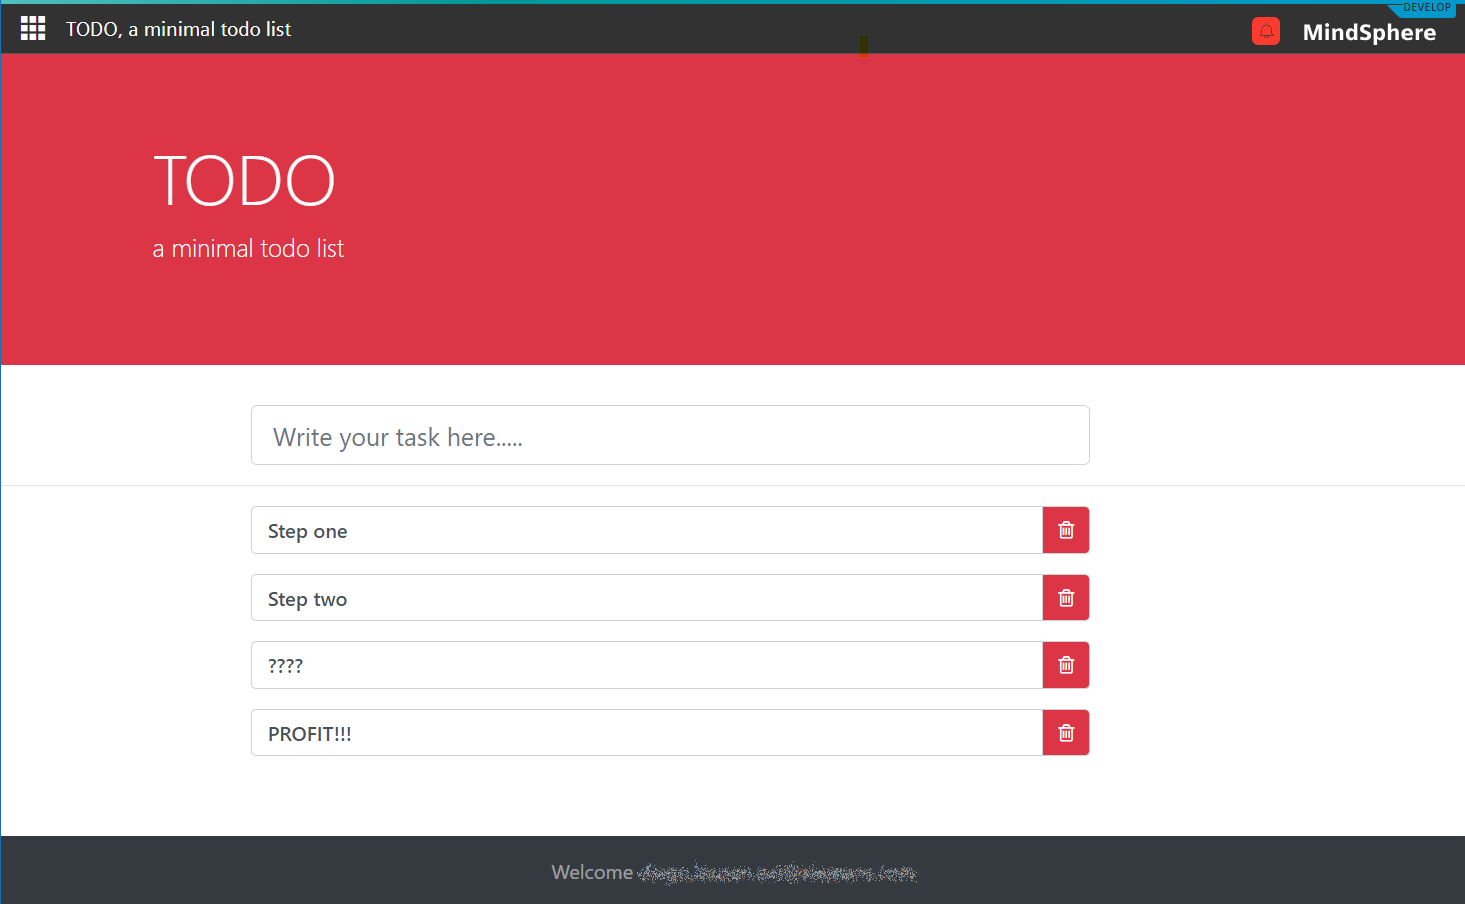
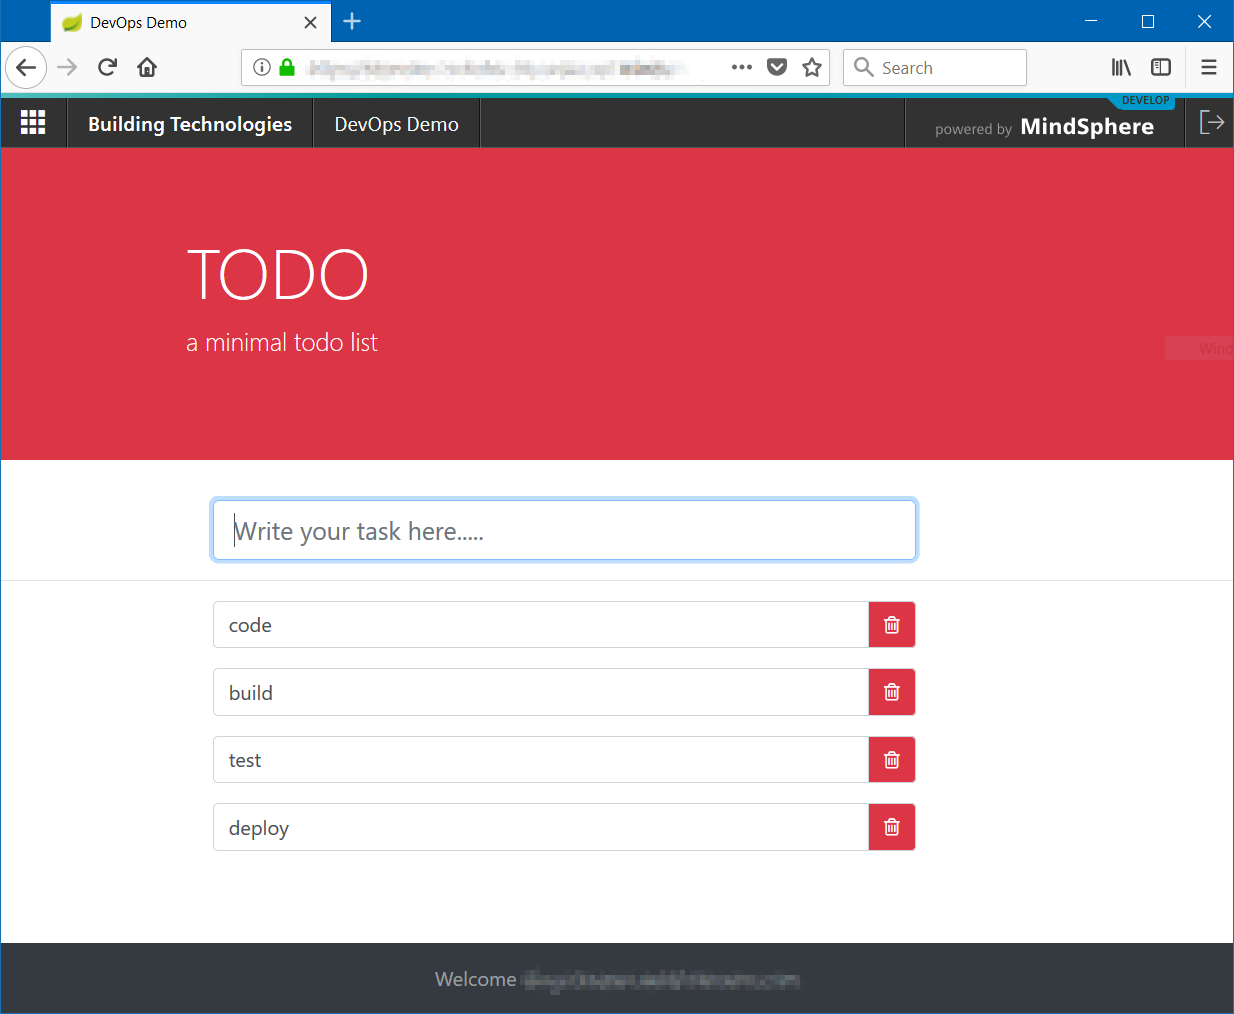
feat: enable MindSphere OS Bar v4
Fixes #12

diff --git a/src/app/app.component.ts b/src/app/app.component.ts
@@ -4,7 +4,7 @@ SPDX-License-Identifier: MIT
 */
 
 import { Component } from '@angular/core';
-declare let _msb: any;
+declare let _mdsp: any;
 
 @Component({
   selector: 'app-root',
@@ -15,9 +15,11 @@ export class AppComponent {
   slogan = 'a minimal todo list';
 
   constructor() {
-    _msb.init({
-      title: `${this.title}, ${this.slogan}`,
-      initialize: true
+    _mdsp.init({
+      title: 'DevOps Demo',
+      appId: '_mdspcontent',
+      initialize: true,
+      appInfoPath: '/assets/mdsp-app-info.json'
     });
   }
 }

diff --git a/src/index.html b/src/index.html
@@ -6,10 +6,10 @@
   <base href="/">
 
   <meta name="viewport" content="width=device-width, initial-scale=1">
-  <script src="https://static.eu1.mindsphere.io/osbar/js/main.min.js"></script>
+  <script src="https://static.eu1.mindsphere.io/osbar/v4/js/main.min.js"></script>
 </head>
 <body>
-  <div id="_mscontent">
+  <div id="_mdspcontent">
     <app-root></app-root>
   </div>
 </body>

diff --git a/src/app/app.component.spec.ts b/src/app/app.component.spec.ts
@@ -12,7 +12,7 @@ import { TodoService } from './todo.service';
 
 describe('AppComponent', () => {
   beforeEach(async(() => {
-    (<any>window)._msb = { init: () => {} };
+    (<any>window)._mdsp = { init: () => {} };
     TestBed.configureTestingModule({
       imports: [
         BrowserModule,

diff --git a/e2e/src/userinfo.e2e-spec.ts b/e2e/src/userinfo.e2e-spec.ts
@@ -4,7 +4,6 @@ SPDX-License-Identifier: MIT
 */
 
 import { browser, by, element } from 'protractor';
-import { protractor } from 'protractor/built/ptor';
 
 describe('UserInfo display', () => {
 
